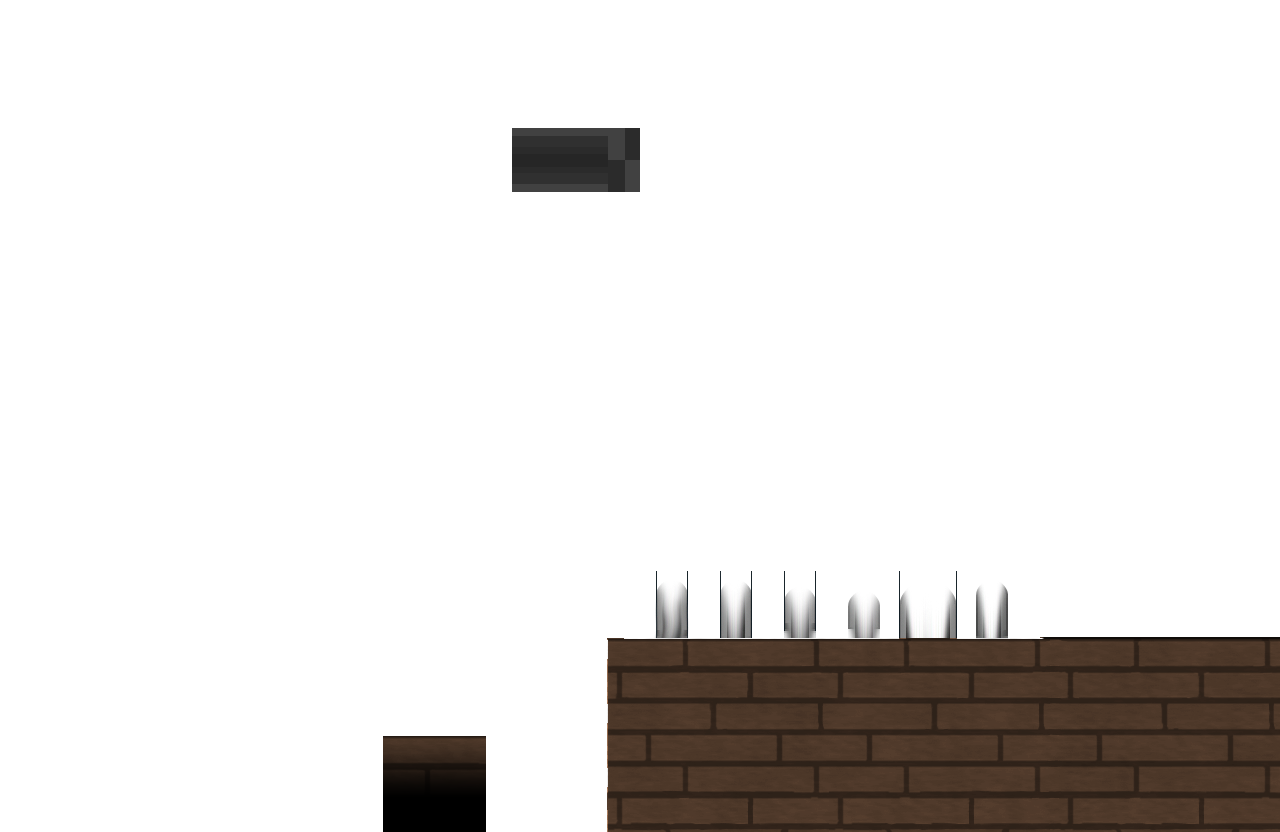
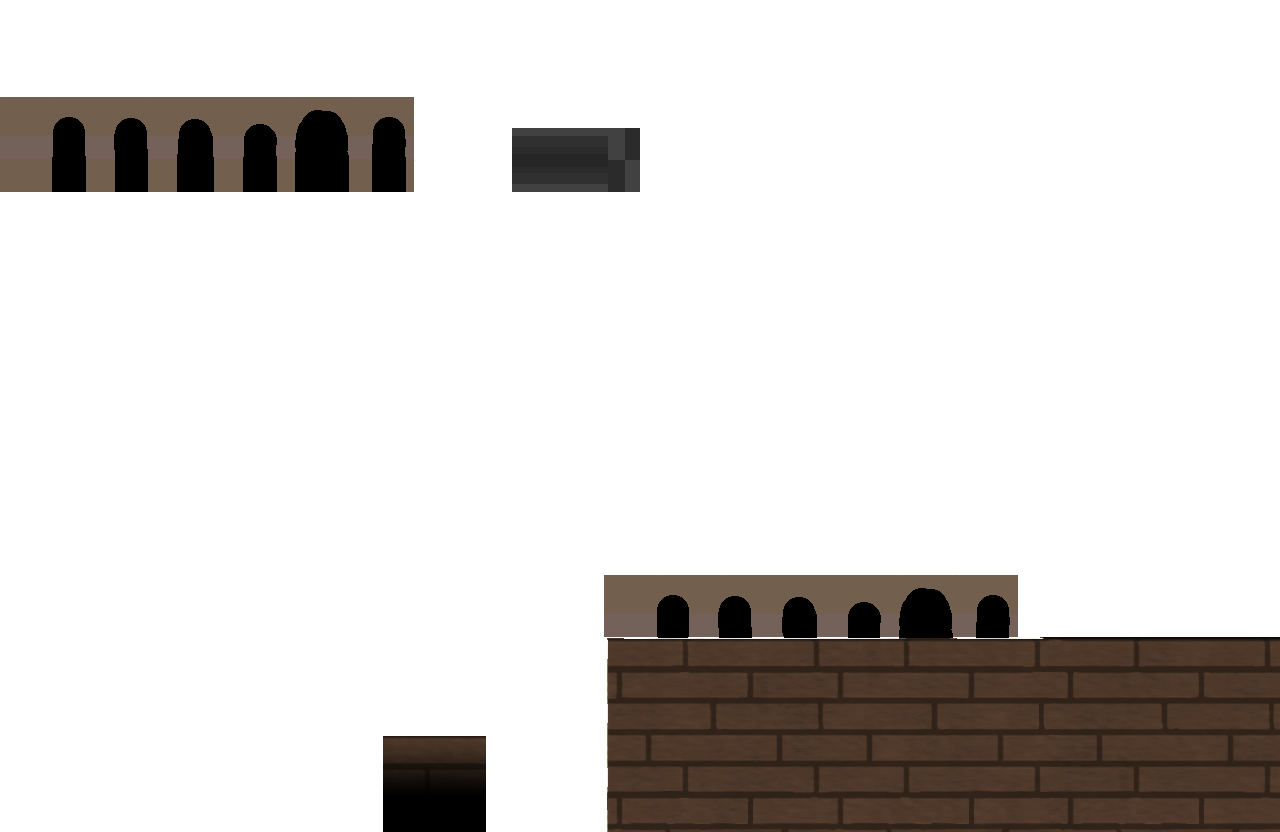
-Maybe fixed the game-breaking bug in stage 2
- added missing assets to git

- made foot-spike collision switch to game over

Changed region(s): [[0.0, 0.0938, 0.3438, 0.25], [0.4688, 0.6875, 0.8125, 0.7812]]

diff --git a/core/src/com/mygdx/game/Voodoo.java b/core/src/com/mygdx/game/Voodoo.java
@@ -2,7 +2,6 @@ package com.mygdx.game;
 
 import com.badlogic.gdx.Gdx;
 import com.badlogic.gdx.graphics.Texture;
-import com.badlogic.gdx.math.Vector2;
 import com.badlogic.gdx.physics.box2d.Body;
 import com.badlogic.gdx.physics.box2d.BodyDef;
 import com.badlogic.gdx.physics.box2d.FixtureDef;
@@ -25,8 +24,6 @@ public class Voodoo {
      * Draw-method compares bodies to this, if it's a match, draw bodies
      * Otherwise the userdata from ground and wall objects interferes this
      */
-    private Body voodooBodyTemplate;
-
 
     private Body testBody1;
     private Body testBody2;
@@ -38,6 +35,7 @@ public class Voodoo {
 
     private Body testBody7;
     private Body testBody8;
+    private Body testBody9;
 
     private Array<Body> voodooBodyArray = new Array<Body>();
 
@@ -51,14 +49,16 @@ public class Voodoo {
 
 
         if(host.getCurrentStage() == 1 || host.getCurrentStage() == 2) {
-            voodooBodyTemplate = createBody(5, 1, vdObject.width, vdObject.height, world);
-            voodooBodyTemplate.setUserData(vdObject);
+
+            int[]stage1XposArray = {5, 7, 13, 18, 20, 24, 29, 32, 35};
+
+            int[]stage1YposArray = {1, 2, 8, 8, 8, 7, 7, 7, 7};
 
             // Voodoo 1-3
-            testBody1 = createBody(7, 7, vdObject.width, vdObject.height, world);
+            testBody1 = createBody(7, 2, vdObject.width, vdObject.height, world);
             testBody1.setUserData(vdObject);
 
-            testBody2 = createBody(11, 5, vdObject.width, vdObject.height, world);
+            testBody2 = createBody(13, 8, vdObject.width, vdObject.height, world);
             testBody2.setUserData(vdObject);
 
             testBody3 = createBody(18, 8, vdObject.width, vdObject.height, world);
@@ -81,6 +81,9 @@ public class Voodoo {
             testBody8 = createBody(35, 7, vdObject.width, vdObject.height, world);
             testBody8.setUserData(vdObject);
 
+            testBody9 = createBody(5, 1, vdObject.width, vdObject.height, world);
+            testBody9.setUserData(vdObject);
+
             voodooBodyArray.add(testBody1);
             voodooBodyArray.add(testBody2);
             voodooBodyArray.add(testBody3);
@@ -89,6 +92,7 @@ public class Voodoo {
             voodooBodyArray.add(testBody6);
             voodooBodyArray.add(testBody7);
             voodooBodyArray.add(testBody8);
+            voodooBodyArray.add(testBody9);
 
         }
     }
@@ -117,13 +121,13 @@ public class Voodoo {
         FixtureDef vdFixDef = new FixtureDef();
 
         // Mass per square meter (kg^m2)
-        vdFixDef.density = 1;
+        vdFixDef.density = 1f;
 
         // How bouncy object? [0,1]
         vdFixDef.restitution = 0.4f;
 
         // How slipper object? [0,1]
-        vdFixDef.friction = 0.01f;
+        vdFixDef.friction = 0.05f;
 
         // Create polygon shape
         PolygonShape polyShape = new PolygonShape();
@@ -136,6 +140,7 @@ public class Voodoo {
     }
 
 
+    /**
     public void voodooWalk() {
 
         for(Body body:voodooBodyArray) {
@@ -145,45 +150,30 @@ public class Voodoo {
             if(i < voodooBodyArray.size) {
                 i++;
             }
-
-            if(body.getLinearVelocity().y == 0) {
-
-                float bodyInitialPos;
-
-                bodyInitialPos = voodooBodyArray.get(i).getPosition().x;
-
-                body.setLinearVelocity(-1.5f, 0);
-
-                if(body.getPosition().x < bodyInitialPos - 3f) {
-                    body.setLinearVelocity(1.5f, 0);
-                }
-            }
-
-        }
-    }
-
-    /**
-     * TEST METHOD
-    public void voodooWalk() {
-
-        for(int i = 1; i < voodooBodyArray.size; i++) {
-
             float bodyInitialPos;
 
             bodyInitialPos = voodooBodyArray.get(i).getPosition().x;
 
-            body.setL
+
+            if(body.getLinearVelocity().y == 0) {
+
+                Gdx.app.log("log", "i pos" + voodooBodyArray.get(i).getPosition().x);
+
+                body.setLinearVelocity(-1f, 0);
+
+                if(body.getPosition().x < bodyInitialPos - 4f) {
+                    body.setLinearVelocity(1f, 0);
+                } else if(body.getPosition().x > bodyInitialPos + 4f) {
+                    body.setLinearVelocity(-1f, 0);
+                }
+            }
+
         }
     }
      */
 
     public void dispose() {
         voodooTex.dispose();
-
-    }
-
-    public Body getVoodooBodyTemplate() {
-        return voodooBodyTemplate;
     }
 
     public ObjectData getVdObject() {

diff --git a/core/src/com/mygdx/game/GameScreen.java b/core/src/com/mygdx/game/GameScreen.java
@@ -194,7 +194,10 @@ public class GameScreen implements Screen, Input.TextInputListener, GestureDetec
 
         }
 
-        Utilities.transformWallsToBodies("world-wall-rectangles", "world-wall", tiledMap, world);
+        if(host.getCurrentStage() == 2) {
+            Utilities.transformWallsToBodies("spike-rectangles", "spike", tiledMap, world);
+        }
+
         Utilities.transformWallsToBodies("wall-rectangles", "wall", tiledMap, world);
         Utilities.transformWallsToBodies("goal-rectangle", "goal", tiledMap, world);
 
@@ -371,24 +374,27 @@ public class GameScreen implements Screen, Input.TextInputListener, GestureDetec
                             //switch to game over screen
                             Gdx.app.log("log", "gameover");
                             gameOver = true;
-
                         }
                     }
 
                     /**
                      * Cat collision gameover-check
                      */
-
-
                     if(body1.getUserData().equals("player")) {
                         if(body2.getUserData().equals("cat")) {
                             //switch to game over screen
                             Gdx.app.log("log", "gameover");
                             gameOver = true;
                         }
-
                     }
 
+                    if(body1.getUserData().equals("foot")) {
+                        if(body2.getUserData().equals("spike")) {
+                            //switch to game over screen
+                            Gdx.app.log("log", "gameover");
+                            gameOver = true;
+                        }
+                    }
 
                     // when player touches goal-rectangle
                     if(body1.getUserData().equals("foot")) {

diff --git a/core/src/com/mygdx/game/BodyHandler.java b/core/src/com/mygdx/game/BodyHandler.java
@@ -49,6 +49,8 @@ public class BodyHandler {
             // Draw all bodies with  voodoo doll user data (ground is not drawn)
             if(body.getUserData().equals(voodoo.getVdObject())) {   // > voodoo getter!
 
+                body.setFixedRotation(true);
+
                 // Get user data, has texture, enemy type and
                 // radius
                 ObjectData voodoo = (ObjectData) body.getUserData();
@@ -102,6 +104,7 @@ public class BodyHandler {
             // If it equals voodoo template
             if (body.getUserData().equals(voodoo.getVdObject())) {
 
+                // If voodoo body is off screen
                 if (body.getPosition().y < -1) {
                     // Clear velocity (dropping of the screen)
                     body.setLinearVelocity(new Vector2(0, 0));
@@ -110,17 +113,6 @@ public class BodyHandler {
                     bodiesToBeDestroyed.add(body);
                 }
             }
-        }
-
-
-        // If voodoo template is off screen
-        if(voodoo.getVoodooBodyTemplate().getPosition().y < -1) {
-            // Clear velocity (dropping of the screen)
-            voodoo.getVoodooBodyTemplate().setLinearVelocity(new Vector2(0,8));
-            Gdx.app.log("offscreen", "ball Y-pos" + voodoo.getVoodooBodyTemplate().getPosition().y);
-
-            voodoo.getVoodooBodyTemplate().setTransform(new Vector2(windowWidth / 2, windowHeight
-                    + voodoo.getVdObject().width*2), 0);
         }
 
         /**
@@ -165,7 +157,7 @@ public class BodyHandler {
      */
     public void callEnemyWalk() {
         rat.ratWalk();
-        voodoo.voodooWalk();
+        //voodoo.voodooWalk();
     }
 
     public ObjectData callVoodooGetter() {

diff --git a/core/src/com/mygdx/game/ObjectData.java b/core/src/com/mygdx/game/ObjectData.java
@@ -9,13 +9,8 @@ import com.badlogic.gdx.graphics.Texture;
 public class ObjectData {
 
     Texture objectTexture;
-    //float radius;
-
     float width;
     float height;
-
-    // public int id;
-
 
     public enum GameObjectType {
         VOODOO,
